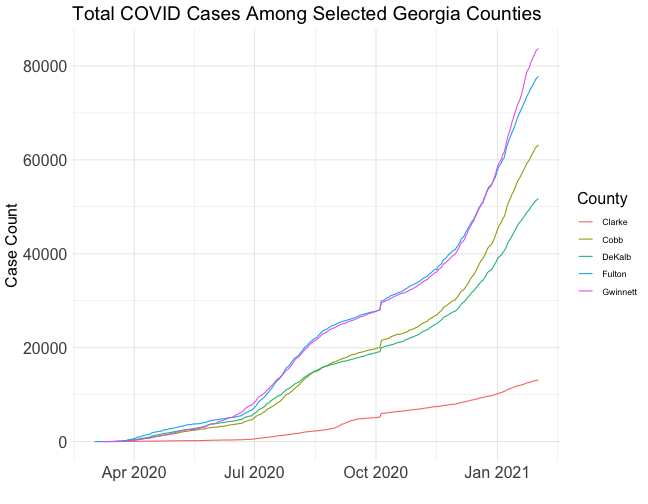
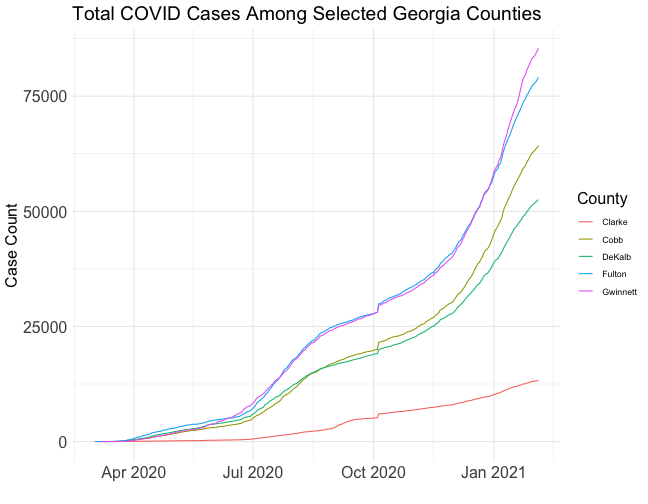
updates

diff --git a/content/teaching/slides/rlab5-visualizations.html b/content/teaching/slides/rlab5-visualizations.html
@@ -17,7 +17,7 @@ class: center, middle, inverse, title-slide
 ## RLab 5: Visualizations
 ### Alex Combs
 ### UGA | SPIA | PADP
-### Last updated: February 02, 2021
+### Last updated: February 05, 2021
 
 ---
 
@@ -61,7 +61,14 @@ output:
 ```r
 library(data.table)
 library(tidyverse)
-library(arsenal)
+```
+
+```
+## Warning: replacing previous import 'vctrs::data_frame' by 'tibble::data_frame'
+## when loading 'dplyr'
+```
+
+```r
 library(lubridate)
 ```
 
@@ -84,7 +91,7 @@ covid &lt;- fread('https://raw.githubusercontent.com/nytimes/covid-19-data/maste
 
 
 ```
-## Rows: 988,671
+## Rows: 998,409
 ## Columns: 6
 ## $ date   &lt;chr&gt; "2020-01-21", "2020-01-22", "2020-01-23", "2020-01-24", "2020-…
 ## $ county &lt;chr&gt; "Snohomish", "Snohomish", "Snohomish", "Cook", "Snohomish", "O…
@@ -105,7 +112,7 @@ covid &lt;- fread('https://raw.githubusercontent.com/nytimes/covid-19-data/maste
 
 
 ```
-## Rows: 50,329
+## Rows: 50,809
 ## Columns: 6
 ## $ date   &lt;chr&gt; "2020-03-02", "2020-03-03", "2020-03-04", "2020-03-05", "2020-…
 ## $ county &lt;chr&gt; "Fulton", "Fulton", "Fulton", "Fulton", "Fulton", "Polk", "Cob…
@@ -129,7 +136,7 @@ covid_ga$date &lt;- ymd(covid_ga$date)
 
 
 ```
-## Rows: 50,329
+## Rows: 50,809
 ## Columns: 6
 ## $ date   &lt;date&gt; 2020-03-02, 2020-03-03, 2020-03-04, 2020-03-05, 2020-03-06, 2…
 ## $ county &lt;chr&gt; "Fulton", "Fulton", "Fulton", "Fulton", "Fulton", "Polk", "Cob…
@@ -312,12 +319,16 @@ class: inverse, center, middle
 ---
 # Basic improvements
 
-- Titles and axes labels
+- Titles and axis labels
 - Themes
 - Text size
 
 ---
 # Saving a graph as an object
+
+- We can save a graph just like we would a dataset to use for later
+
+&gt; **Even though you've already created `viz1`, copy, paste, and run below code to save the basic version of `viz1`.**
 
 
 ```r
@@ -327,12 +338,12 @@ class: inverse, center, middle
   geom_histogram()
 ```
 
-- We can save a graph just like we would a dataset to use for later
-
 ---
-# Titles and axes labels
+# Titles and axis labels
 
 - Titles and all axis labels are controlled by `labs`
+
+&gt; **In a new code chunk, add the labels below to your saved `viz1`. Run this code to see what it did.**
 
 
 ```r
@@ -364,6 +375,8 @@ theme_bw()
 ---
 # Themes
 
+&gt; **Add new line below to your current code and re-run to see what it did.**
+
 
 ```r
 viz1 +
@@ -382,6 +395,8 @@ viz1 +
 # Text size
 
 - After using `theme_whatever`, we can control any of the "ink" via `theme()`
+
+&gt; **Add new lines below to your current code and re-run to see what it did**
 
 
 ```r
